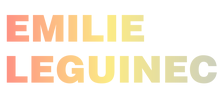
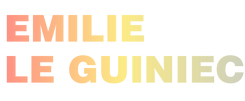
Mettre à jour le nom et les fonctions d’Émilie
* Mettre à jour le nom et les fonctions d’Émilie

* Mettre à jour le nom et les fonctions d’Émilie

* Mettre à jour le nom et les fonctions d’Émilie

diff --git a/signatures/emilie-leguinec/signature.html b/signatures/emilie-leguinec/signature.html
@@ -1,11 +1,11 @@
 <!doctype html>
-<html lang="fr"><head><meta charset="utf-8"><meta name="viewport" content="width=device-width,initial-scale=1"><title>Signature — Emilie Leguinec</title></head>
+<html lang="fr"><head><meta charset="utf-8"><meta name="viewport" content="width=device-width,initial-scale=1"><title>Signature — Emilie Le Guiniec</title></head>
 <body style="margin:0;padding:0;background:#fff;">
 <table id="signature" role="presentation" width="400" height="150" cellpadding="0" cellspacing="0" border="0" bgcolor="#292929" style="width:400px;height:150px;table-layout:fixed;border-collapse:separate;border-spacing:0;border-radius:12px;background:#292929;color:#fff;font-family:Arial,Helvetica,sans-serif;-webkit-text-size-adjust:100%;">
 <tr><td style="padding:17px 24px 11px;vertical-align:top;"><table role="presentation" width="352" cellpadding="0" cellspacing="0" border="0" style="width:352px;table-layout:fixed;border-collapse:collapse;">
-<tr><td width="190" height="71" valign="top" style="width:190px;height:71px;padding:0;"><img src="https://raw.githubusercontent.com/raphaeldumaslevillain-commits/signature-mail-quarks-lea/main/signatures/emilie-leguinec/identite.png" width="153" alt="Emilie Leguinec" style="display:block;border:0;width:153.2px;height:auto;"></td>
+<tr><td width="190" height="71" valign="top" style="width:190px;height:71px;padding:0;"><img src="https://raw.githubusercontent.com/raphaeldumaslevillain-commits/signature-mail-quarks-lea/main/signatures/emilie-leguinec/identite.png" width="172" alt="Emilie Le Guiniec" style="display:block;border:0;width:172.2px;height:auto;"></td>
 <td width="162" valign="top" style="width:162px;padding:5px 0 0;"><table role="presentation" width="162" cellpadding="0" cellspacing="0" border="0" style="width:162px;table-layout:fixed;border-collapse:separate;border-spacing:0;"><tr><td align="right" style="border-left:1px solid #fff;padding:0 6px 0 8px;height:55px;vertical-align:top;text-align:right;">
-<div style="font-size:11px;line-height:15px;font-weight:700;white-space:nowrap;">Founder Quarks<br>Membre UMICC</div>
+<div style="font-size:11px;line-height:15px;font-weight:700;white-space:nowrap;">Co Founder DBM<br>Vice-Présidente UMICC</div>
 <div style="font-size:10px;line-height:14px;padding-top:6px;white-space:nowrap;"><a href="tel:+33608455930" style="color:#fff;text-decoration:none;">06 08 45 59 30</a><br><a href="mailto:emilie@agencequarks.com" style="color:#fff;text-decoration:none;">emilie@agencequarks.com</a></div>
 </td></tr></table></td></tr>
 <tr><td colspan="2" height="31" style="height:31px;font-size:0;line-height:31px;">&nbsp;</td></tr>

diff --git a/signatures/emilie-leguinec/index.html b/signatures/emilie-leguinec/index.html
@@ -1,11 +1,11 @@
 <!doctype html>
-<html lang="fr"><head><meta charset="utf-8"><meta name="viewport" content="width=device-width,initial-scale=1"><title>Signature — Emilie Leguinec</title></head>
+<html lang="fr"><head><meta charset="utf-8"><meta name="viewport" content="width=device-width,initial-scale=1"><title>Signature — Emilie Le Guiniec</title></head>
 <body style="margin:0;padding:0;background:#fff;">
 <table id="signature" role="presentation" width="400" height="150" cellpadding="0" cellspacing="0" border="0" bgcolor="#292929" style="width:400px;height:150px;table-layout:fixed;border-collapse:separate;border-spacing:0;border-radius:12px;background:#292929;color:#fff;font-family:Arial,Helvetica,sans-serif;-webkit-text-size-adjust:100%;">
 <tr><td style="padding:17px 24px 11px;vertical-align:top;"><table role="presentation" width="352" cellpadding="0" cellspacing="0" border="0" style="width:352px;table-layout:fixed;border-collapse:collapse;">
-<tr><td width="190" height="71" valign="top" style="width:190px;height:71px;padding:0;"><img src="identite.png" width="153" alt="Emilie Leguinec" style="display:block;border:0;width:153.2px;height:auto;"></td>
+<tr><td width="190" height="71" valign="top" style="width:190px;height:71px;padding:0;"><img src="identite.png" width="172" alt="Emilie Le Guiniec" style="display:block;border:0;width:172.2px;height:auto;"></td>
 <td width="162" valign="top" style="width:162px;padding:5px 0 0;"><table role="presentation" width="162" cellpadding="0" cellspacing="0" border="0" style="width:162px;table-layout:fixed;border-collapse:separate;border-spacing:0;"><tr><td align="right" style="border-left:1px solid #fff;padding:0 6px 0 8px;height:55px;vertical-align:top;text-align:right;">
-<div style="font-size:11px;line-height:15px;font-weight:700;white-space:nowrap;">Founder Quarks<br>Membre UMICC</div>
+<div style="font-size:11px;line-height:15px;font-weight:700;white-space:nowrap;">Co Founder DBM<br>Vice-Présidente UMICC</div>
 <div style="font-size:10px;line-height:14px;padding-top:6px;white-space:nowrap;"><a href="tel:+33608455930" style="color:#fff;text-decoration:none;">06 08 45 59 30</a><br><a href="mailto:emilie@agencequarks.com" style="color:#fff;text-decoration:none;">emilie@agencequarks.com</a></div>
 </td></tr></table></td></tr>
 <tr><td colspan="2" height="31" style="height:31px;font-size:0;line-height:31px;">&nbsp;</td></tr>
